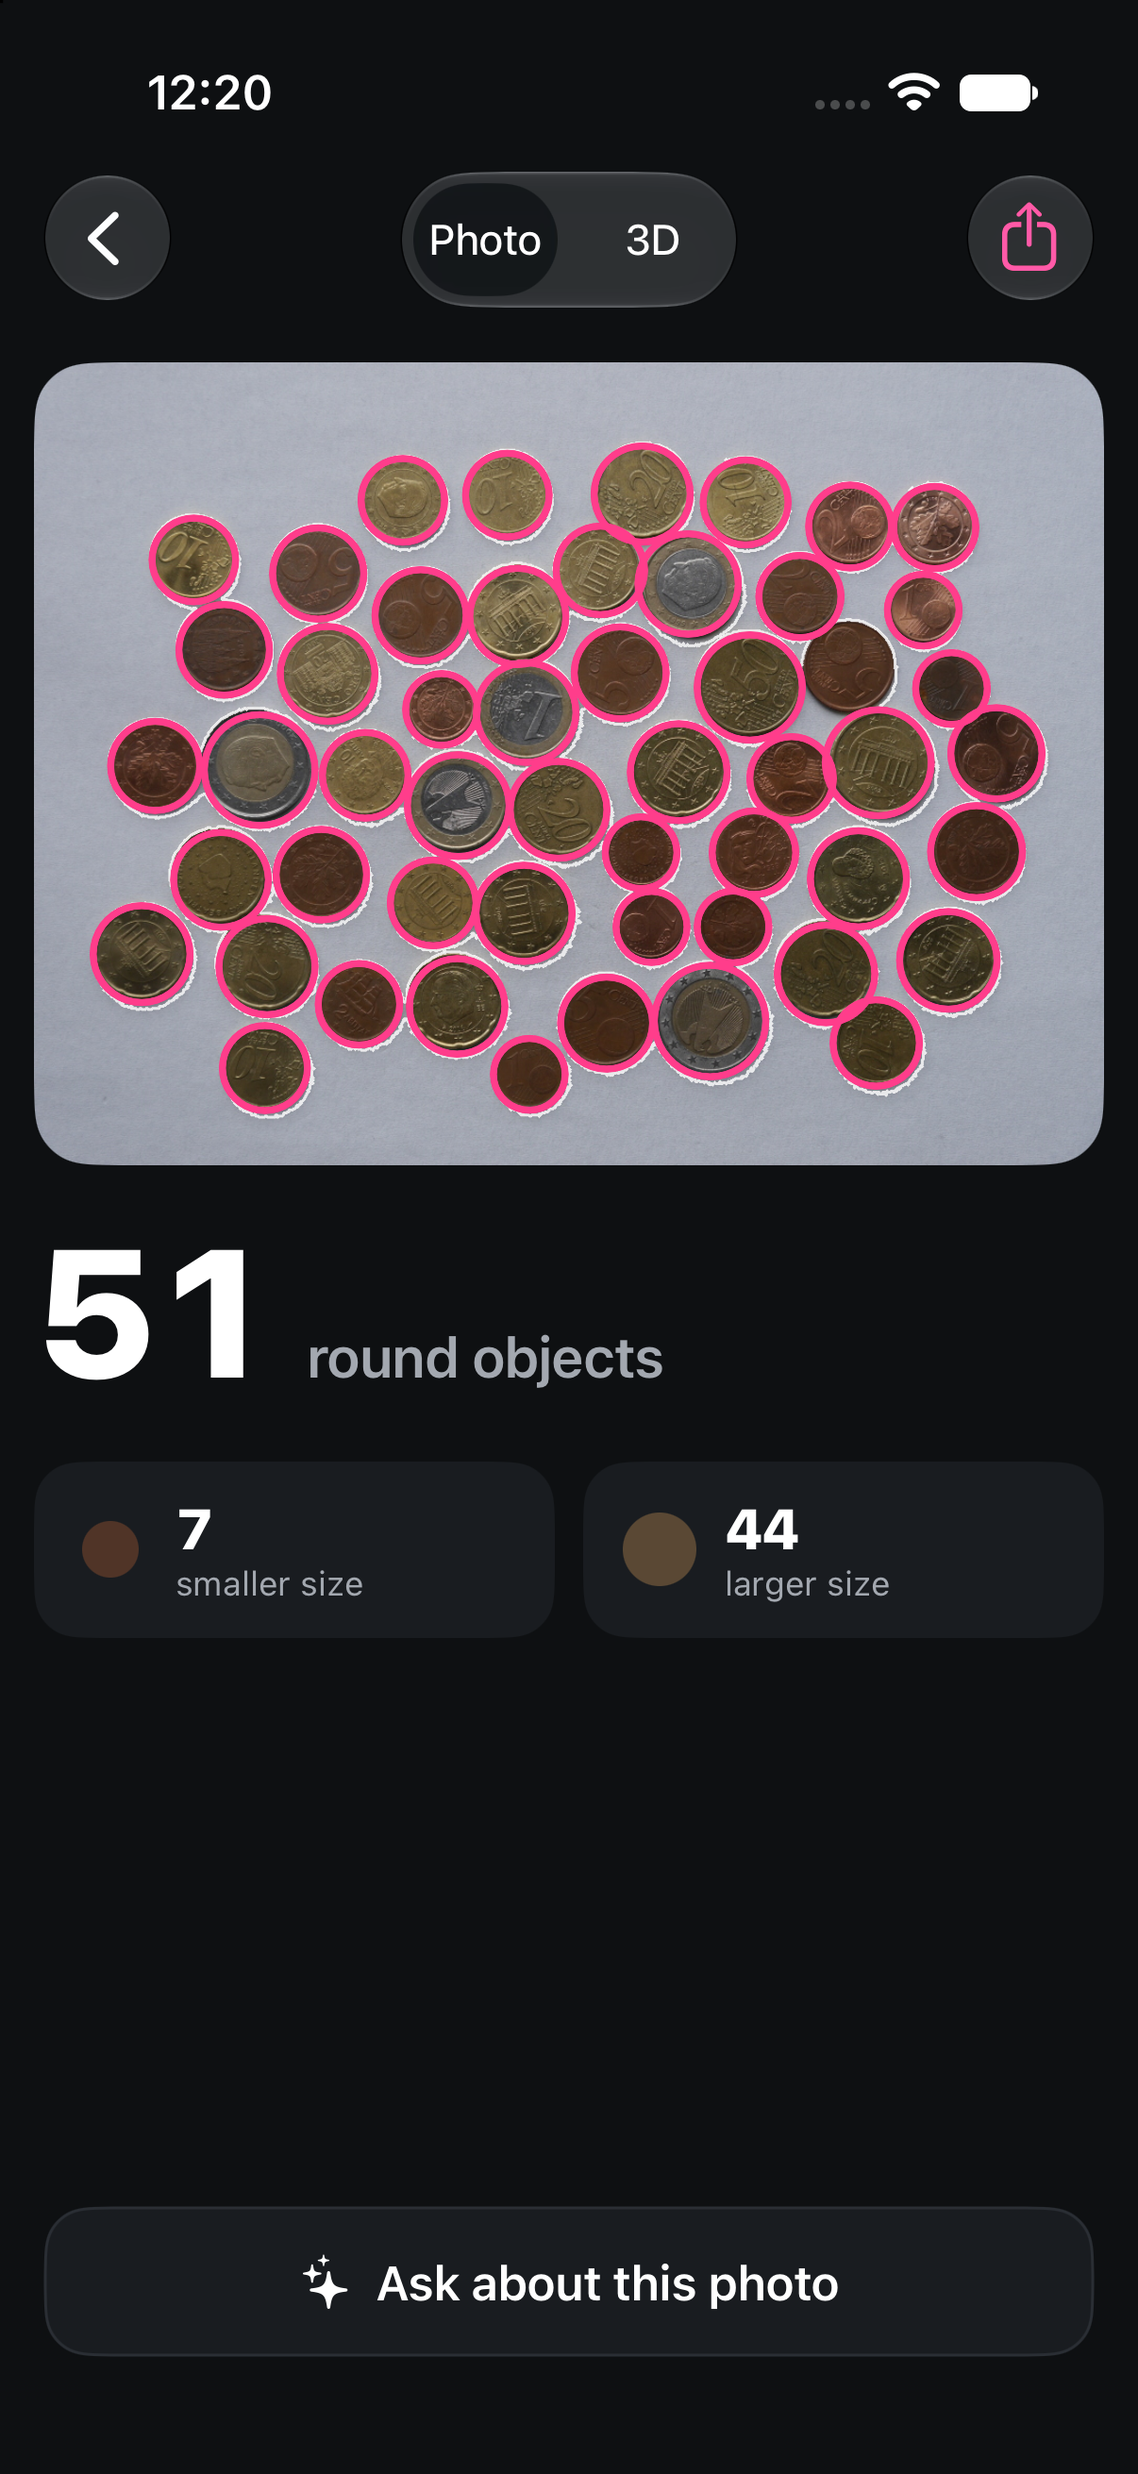
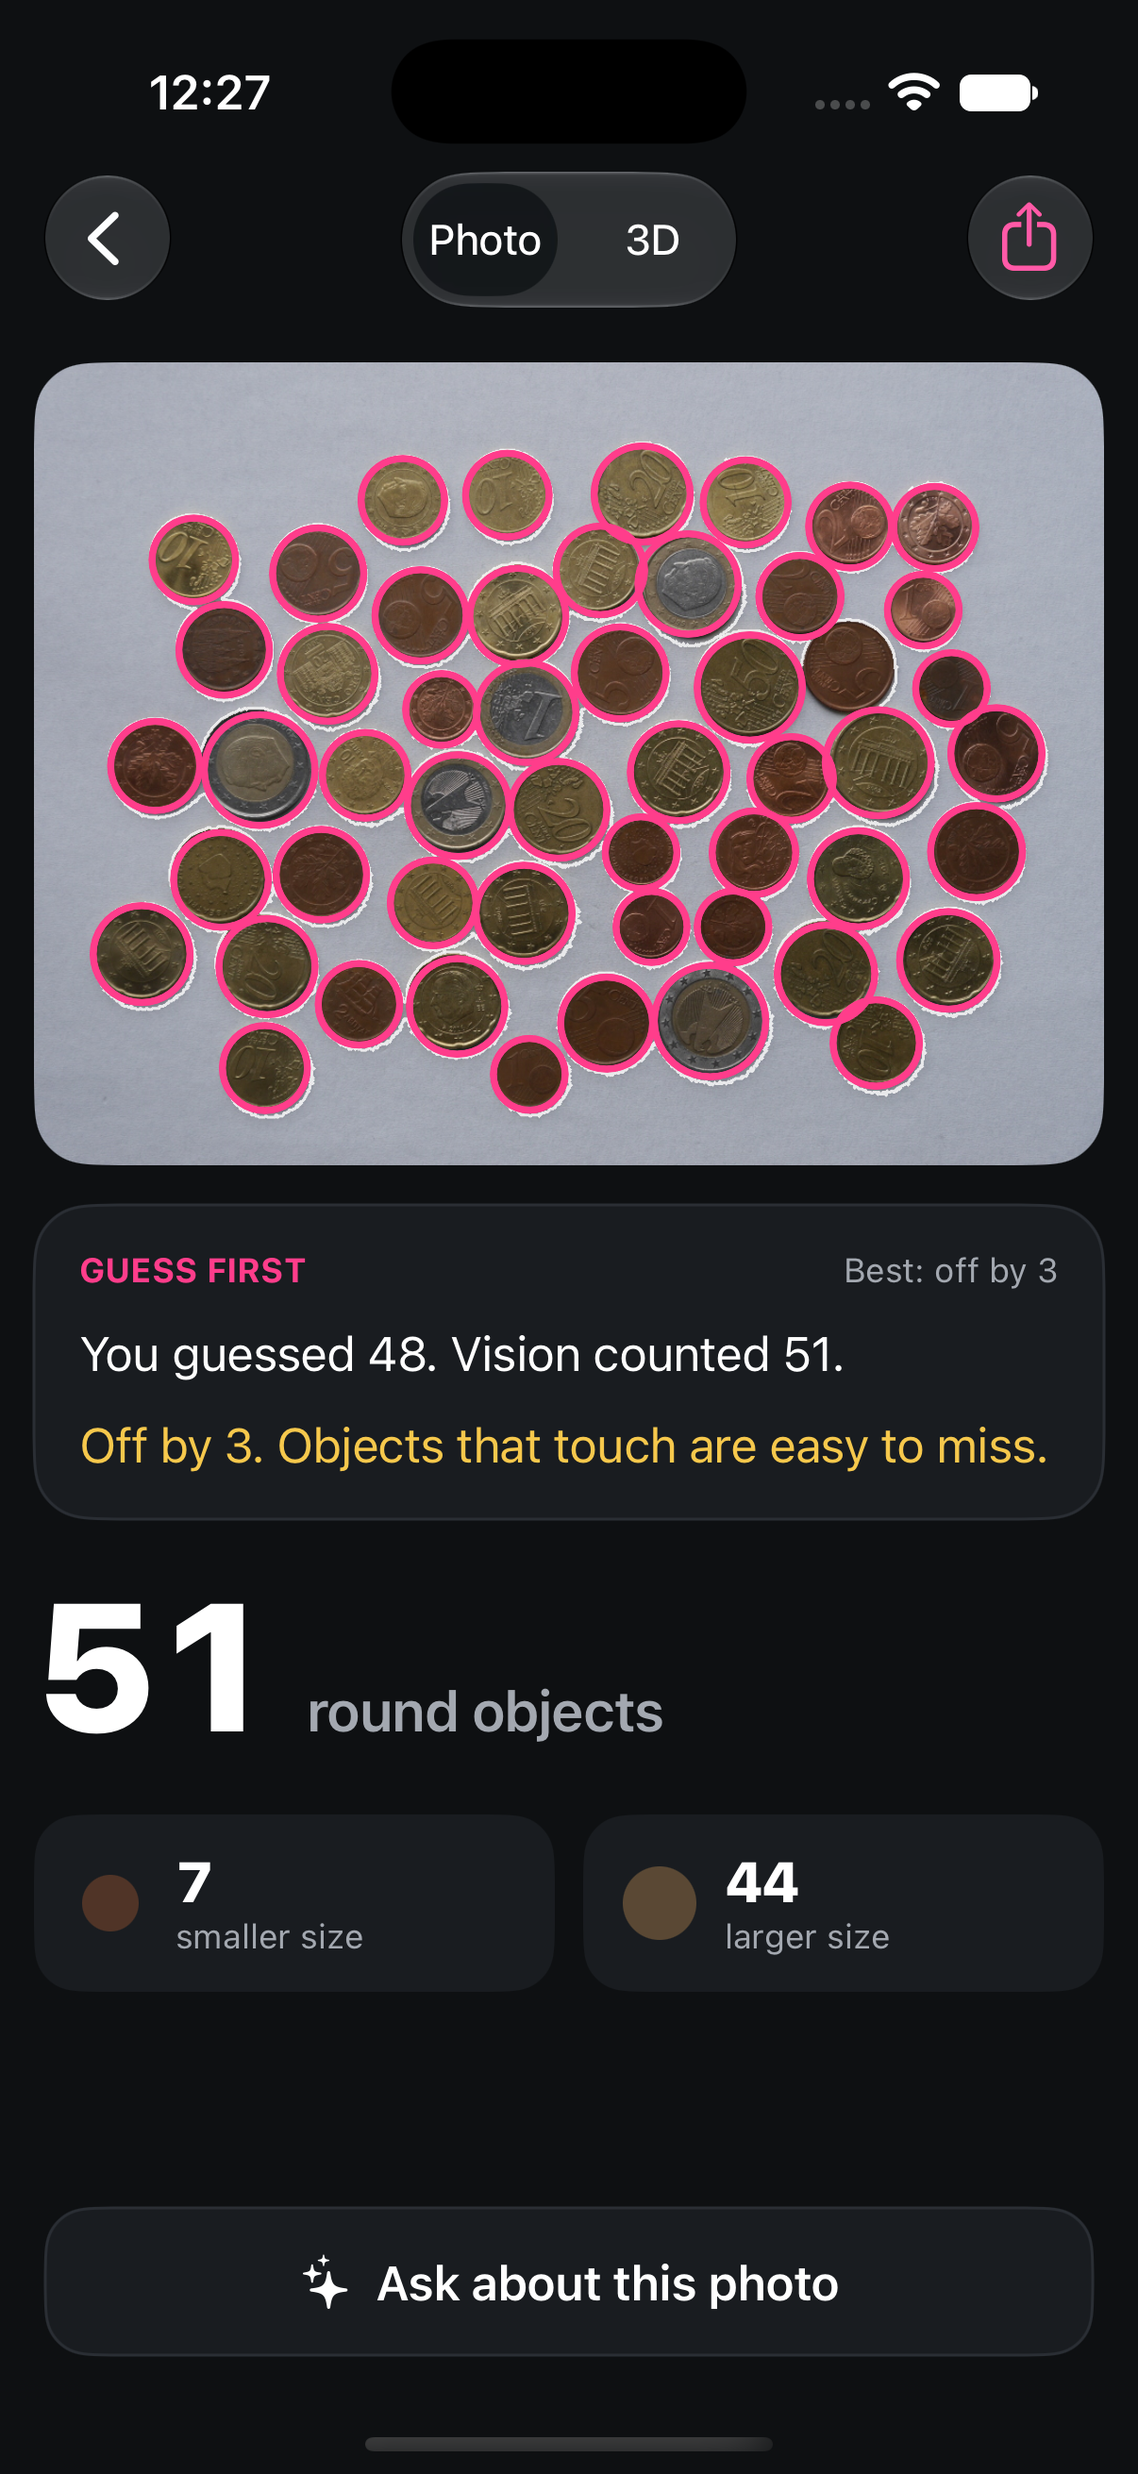
Guess first on the result screen: the count stays hidden until you guess or skip
Coins, Leaves and Anything open with Vision's circles, count and table hidden
behind the guess card; the Ask sheet keeps only the chat. Checked in the iOS
27.2 simulator: guess 48 on the coin sample reveals 51, "Off by 3", best kept.

diff --git a/ContourLab/AskSheet.swift b/ContourLab/AskSheet.swift
@@ -2,13 +2,10 @@ import ContourLabKit
 import FoundationModels
 import SwiftUI
 
-/// What one result screen hands the Ask sheet: the photo, Vision's count for the game, and the
-/// read-only facts the chat's tools return.
+/// What one result screen hands the Ask sheet: the photo and the read-only facts the chat's tools return.
 struct AskContext {
     let title: String
     let image: CGImage
-    /// The guessing game's question and Vision's answer; none for a surfboard.
-    let game: (question: String, actual: Int, key: String)?
     let tools: [FactTool]
 
     static func coins(image: CGImage, result: CountResult) -> AskContext {
@@ -20,7 +17,6 @@ struct AskContext {
         return AskContext(
             title: "Ask about this photo",
             image: image,
-            game: ("How many round things are in the photo? Vision reveals the count after you guess.", result.summary.count, "coins"),
             tools: [
                 FactTool(name: "countSummary", label: "count summary", description: "Reads what Vision counted in the photo.", facts: result.summary.sentence),
                 FactTool(name: "sizeGroups", label: "size groups", description: "Reads the size groups Vision sorted the round objects into, smallest first.", facts: groups.joined(separator: "\n"))
@@ -39,7 +35,6 @@ struct AskContext {
         return AskContext(
             title: kind == .leaves ? "Ask about these leaves" : "Ask about these objects",
             image: image,
-            game: ("How many separate \(noun) are in the photo? Vision reveals the count after you guess.", result.summary.count, kind.rawValue.lowercased()),
             tools: [
                 FactTool(name: "countSummary", label: "count summary", description: "Reads what Vision counted and how it sorted the shapes.", facts: result.summary.sentence),
                 FactTool(name: "objectTable", label: "object table", description: "Reads each numbered object's shape, length, width and roundness.", facts: rows.joined(separator: "\n"))
@@ -57,7 +52,6 @@ struct AskContext {
         return AskContext(
             title: "Ask about this board",
             image: image,
-            game: nil,
             tools: [
                 FactTool(name: "boardWidths", label: "board widths", description: "Reads the board's length and widths that Vision measured.", facts: widths.joined(separator: "\n")),
                 FactTool(name: "howMeasured", label: "how it was measured", description: "Explains how the outline was measured and what one photo can't tell.", facts: "Traced from one photo taken from straight above and scaled from the length the person typed. Thickness, rocker and volume need a side view.")
@@ -88,9 +82,6 @@ struct AskSheet: View {
         NavigationStack {
             ScrollView {
                 VStack(alignment: .leading, spacing: 14) {
-                    if let game = context.game {
-                        GuessCard(question: game.question, actual: game.actual, key: game.key)
-                    }
                     ChatView(context: context)
                 }
                 .padding(16)
@@ -105,89 +96,6 @@ struct AskSheet: View {
         }
         .preferredColorScheme(.dark)
         .tint(Theme.accent)
-    }
-}
-
-/// Guess first, then Vision reveals the count. The best miss for each kind is kept on this device.
-struct GuessCard: View {
-    let question: String
-    let actual: Int
-    let key: String
-    @State private var guessText = ""
-    @State private var result: GuessResult?
-    @AppStorage private var best: Int
-
-    init(question: String, actual: Int, key: String) {
-        self.question = question
-        self.actual = actual
-        self.key = key
-        // -1 means no guess yet.
-        _best = AppStorage(wrappedValue: -1, "best.\(key)")
-    }
-
-    var body: some View {
-        VStack(alignment: .leading, spacing: 12) {
-            HStack {
-                Text("Guess first")
-                    .font(.caption.weight(.bold))
-                    .textCase(.uppercase)
-                    .foregroundStyle(Theme.accent)
-                Spacer()
-                if let text = GuessResult.bestText(best >= 0 ? best : nil) {
-                    Text(text).font(.caption).foregroundStyle(Theme.secondary)
-                }
-            }
-            Text(question)
-            HStack(alignment: .bottom, spacing: 10) {
-                VStack(alignment: .leading, spacing: 4) {
-                    Text("Your guess").font(.caption).foregroundStyle(Theme.secondary)
-                    TextField("0", text: $guessText)
-                        .keyboardType(.numberPad)
-                        .font(.title2.weight(.heavy))
-                        .monospacedDigit()
-                        .padding(.horizontal, 14)
-                        .frame(height: 48)
-                        .background(Theme.background, in: .rect(cornerRadius: 14))
-                        .overlay { RoundedRectangle(cornerRadius: 14).stroke(Theme.stroke) }
-                        .disabled(result != nil)
-                        .accessibilityLabel("Your guess")
-                }
-                if let result {
-                    VStack(spacing: 2) {
-                        Text("Vision").font(.caption).foregroundStyle(Theme.secondary)
-                        Text(result.actual, format: .number).font(.system(size: 30, weight: .heavy)).monospacedDigit()
-                    }
-                    .padding(.horizontal, 10)
-                    .accessibilityElement(children: .combine)
-                } else {
-                    Button("Reveal") { reveal() }
-                        .buttonStyle(.borderedProminent)
-                        .frame(minHeight: 48)
-                        .disabled(Int(guessText) == nil)
-                }
-            }
-            if let result {
-                HStack {
-                    Text(result.message).foregroundStyle(Theme.warning)
-                    Spacer()
-                    Button("Guess again") {
-                        self.result = nil
-                        guessText = ""
-                    }
-                    .font(.subheadline)
-                }
-            }
-        }
-        .padding(16)
-        .background(Theme.card, in: .rect(cornerRadius: 20))
-        .overlay { RoundedRectangle(cornerRadius: 20).stroke(Theme.stroke) }
-    }
-
-    private func reveal() {
-        guard let guess = Int(guessText) else { return }
-        let scored = GuessResult(guess: guess, actual: actual)
-        best = scored.best(after: best >= 0 ? best : nil)
-        result = scored
     }
 }
 
@@ -232,9 +140,7 @@ struct ChatView: View {
                         .disabled(draft.trimmingCharacters(in: .whitespaces).isEmpty || chat.isThinking)
                 }
             } else {
-                Text(context.game == nil
-                    ? "Apple Intelligence isn't available on this device, so the chat is off. Every number on the board comes from Vision."
-                    : "Apple Intelligence isn't available on this device, so the chat is off. The guess game still works, and every number here comes from Vision.")
+                Text("Apple Intelligence isn't available on this device, so the chat is off. Every number on the result comes from Vision.")
                     .font(.subheadline)
                     .foregroundStyle(Theme.secondary)
             }

diff --git a/ContourLab/GuessCard.swift b/ContourLab/GuessCard.swift
@@ -1,0 +1,86 @@
+import ContourLabKit
+import SwiftUI
+
+/// Guess first, then Vision reveals the count. Until then the result screen hides its numbers and
+/// circles. The best miss for each kind is kept on this device.
+struct GuessCard: View {
+    let question: String
+    /// Vision's count; nil while it is still counting.
+    let actual: Int?
+    @Binding var revealed: Bool
+    @State private var guessText = ""
+    @State private var result: GuessResult?
+    @AppStorage private var best: Int
+
+    init(question: String, actual: Int?, key: String, revealed: Binding<Bool>) {
+        self.question = question
+        self.actual = actual
+        _revealed = revealed
+        // -1 means no guess yet.
+        _best = AppStorage(wrappedValue: -1, "best.\(key)")
+    }
+
+    var body: some View {
+        // Skipped: nothing to show. Guessed: the card stays with the score.
+        if !revealed || result != nil { card }
+    }
+
+    private var card: some View {
+        VStack(alignment: .leading, spacing: 12) {
+            HStack {
+                Text("Guess first")
+                    .font(.caption.weight(.bold))
+                    .textCase(.uppercase)
+                    .foregroundStyle(Theme.accent)
+                Spacer()
+                if let text = GuessResult.bestText(best >= 0 ? best : nil) {
+                    Text(text).font(.caption).foregroundStyle(Theme.secondary)
+                }
+            }
+            if let result {
+                HStack(alignment: .firstTextBaseline) {
+                    Text("You guessed \(result.guess). Vision counted \(result.actual).")
+                    Spacer()
+                }
+                Text(result.message).foregroundStyle(Theme.warning)
+            } else {
+                Text(question)
+                HStack(alignment: .bottom, spacing: 10) {
+                    TextField("Your guess", text: $guessText)
+                        .keyboardType(.numberPad)
+                        .font(.title2.weight(.heavy))
+                        .monospacedDigit()
+                        .padding(.horizontal, 14)
+                        .frame(height: 48)
+                        .background(Theme.background, in: .rect(cornerRadius: 14))
+                        .overlay { RoundedRectangle(cornerRadius: 14).stroke(Theme.stroke) }
+                        .accessibilityLabel("Your guess")
+                    Button("Reveal") { reveal() }
+                        .buttonStyle(.borderedProminent)
+                        .frame(minHeight: 48)
+                        .disabled(Int(guessText) == nil || actual == nil)
+                }
+                HStack {
+                    if actual == nil {
+                        ProgressView().controlSize(.small)
+                        Text("Vision is counting…").font(.caption).foregroundStyle(Theme.secondary)
+                    }
+                    Spacer()
+                    Button("Skip and show the count") { revealed = true }
+                        .font(.subheadline)
+                }
+            }
+        }
+        .padding(16)
+        .background(Theme.card, in: .rect(cornerRadius: 20))
+        .overlay { RoundedRectangle(cornerRadius: 20).stroke(Theme.stroke) }
+    }
+
+    private func reveal() {
+        guard let guess = Int(guessText), let actual else { return }
+        let scored = GuessResult(guess: guess, actual: actual)
+        best = scored.best(after: best >= 0 ? best : nil)
+        result = scored
+        revealed = true
+    }
+}

diff --git a/ContourLab/CoinsScreen.swift b/ContourLab/CoinsScreen.swift
@@ -11,6 +11,8 @@ struct CoinsScreen: View {
     @State private var isCounting = true
     @State private var showsTable = false
     @State private var asks = false
+    /// False until the person guesses or skips: the count and circles stay hidden.
+    @State private var revealed = false
 
     var body: some View {
         ScrollView {
@@ -20,11 +22,14 @@ struct CoinsScreen: View {
                         TableView3D(scene: table)
                             .aspectRatio(Double(image.width) / Double(image.height), contentMode: .fit)
                     } else {
-                        CountedImage(image: image, result: result)
+                        CountedImage(image: image, result: revealed ? result : nil)
                     }
                 }
                 .clipShape(.rect(cornerRadius: 20))
-                if isCounting {
+                GuessCard(question: "How many round things are in the photo?", actual: result?.summary.count, key: "coins", revealed: $revealed)
+                if !revealed {
+                    EmptyView()
+                } else if isCounting {
                     ProgressView("Counting…").padding()
                 } else if let result {
                     Headline(count: result.summary.count.formatted(), caption: result.summary.count == 1 ? "round object" : "round objects")
@@ -36,7 +41,7 @@ struct CoinsScreen: View {
         }
         .background(Theme.background)
         .safeAreaInset(edge: .bottom) {
-            if result != nil { AskButton(title: "Ask about this photo") { asks = true } }
+            if revealed, result != nil { AskButton(title: "Ask about this photo") { asks = true } }
         }
         .toolbar {
             ToolbarItem(placement: .principal) {
@@ -45,9 +50,9 @@ struct CoinsScreen: View {
                     Text("3D").tag(true)
                 }
                 .pickerStyle(.segmented)
-                .disabled(table == nil)
+                .disabled(table == nil || !revealed)
             }
-            if let result {
+            if revealed, let result {
                 ToolbarItem(placement: .topBarTrailing) {
                     ShareLink(item: result.summary.sentence)
                 }

diff --git a/ContourLab/ShapeViews.swift b/ContourLab/ShapeViews.swift
@@ -11,6 +11,8 @@ struct ShapesScreen: View {
     /// The object the person says is a coin, and which coin, so lengths can be given in centimetres.
     @State private var reference: (shape: Int, coin: ReferenceCoin)?
     @State private var asks = false
+    /// False until the person guesses or skips: the count, numbers and table stay hidden.
+    @State private var revealed = false
 
     private var scale: ReferenceScale? {
         guard let reference, let shape = result?.shapes.first(where: { $0.id == reference.shape }) else { return nil }
@@ -20,9 +22,12 @@ struct ShapesScreen: View {
     var body: some View {
         ScrollView {
             VStack(spacing: 14) {
-                ShapeImage(image: image, result: result)
+                ShapeImage(image: image, result: revealed ? result : nil)
                     .clipShape(.rect(cornerRadius: 20))
-                if let result {
+                GuessCard(question: "How many separate \(kind == .leaves ? "leaves and other objects" : "objects") are in the photo?", actual: result?.summary.count, key: kind.rawValue.lowercased(), revealed: $revealed)
+                if !revealed {
+                    EmptyView()
+                } else if let result {
                     Headline(count: result.summary.count.formatted(), caption: Self.caption(result.summary))
                     ShapeTable(result: result, scale: scale)
                     referenceNote(result)
@@ -42,7 +47,7 @@ struct ShapesScreen: View {
         }
         .background(Theme.background)
         .safeAreaInset(edge: .bottom) {
-            if let result {
+            if revealed, let result {
                 AskButton(title: kind == .leaves ? "Ask about these leaves" : "Ask about these objects") { asks = true }
                     .sheet(isPresented: $asks) { AskSheet(context: .shapes(image: image, result: result, kind: kind, scale: scale)) }
             }

diff --git a/README.md b/README.md
@@ -55,7 +55,7 @@ What else Vision, ARKit and RealityKit could add, and what comes next, is in [do
 
 ## Apple Intelligence and Siri
 
-- **Ask and guess.** Each result has an *Ask* button. The sheet starts with a game: guess the count, then Vision reveals it; the best miss is kept on the device. Below it, a chat with the on-device model, which can read Vision's results through two read-only Foundation Models tools (the count summary plus the size groups, object table or board widths) and sees the photo. A reply containing a digit is dropped, so every number on screen still comes from Vision.
+- **Guess first, then ask.** Coins, Leaves and Anything open with the count hidden: guess how many, or skip, and Vision reveals the count and the circles. The best miss for each kind is kept on the device. Each result then has an *Ask* button: a chat with the on-device model, which sees the photo and can read Vision's results through two read-only Foundation Models tools (the count summary plus the size groups, the object table, or the board widths). A reply containing a digit is dropped, so every number on screen still comes from Vision.
 
 - **On-device model (iOS 27).** When Apple Intelligence is available, the app shows the photo to the on-device model with Foundation Models' `Attachment` and asks what the objects are. The model never counts: it's told not to, any reply containing a digit is dropped, and the number on screen always comes from Vision.
 - **Siri and Shortcuts.** `CountObjectsIntent` counts the objects in a photo without opening the app. Say *"Count objects with Contour Lab"*, or use it in a shortcut or on the Action button.
